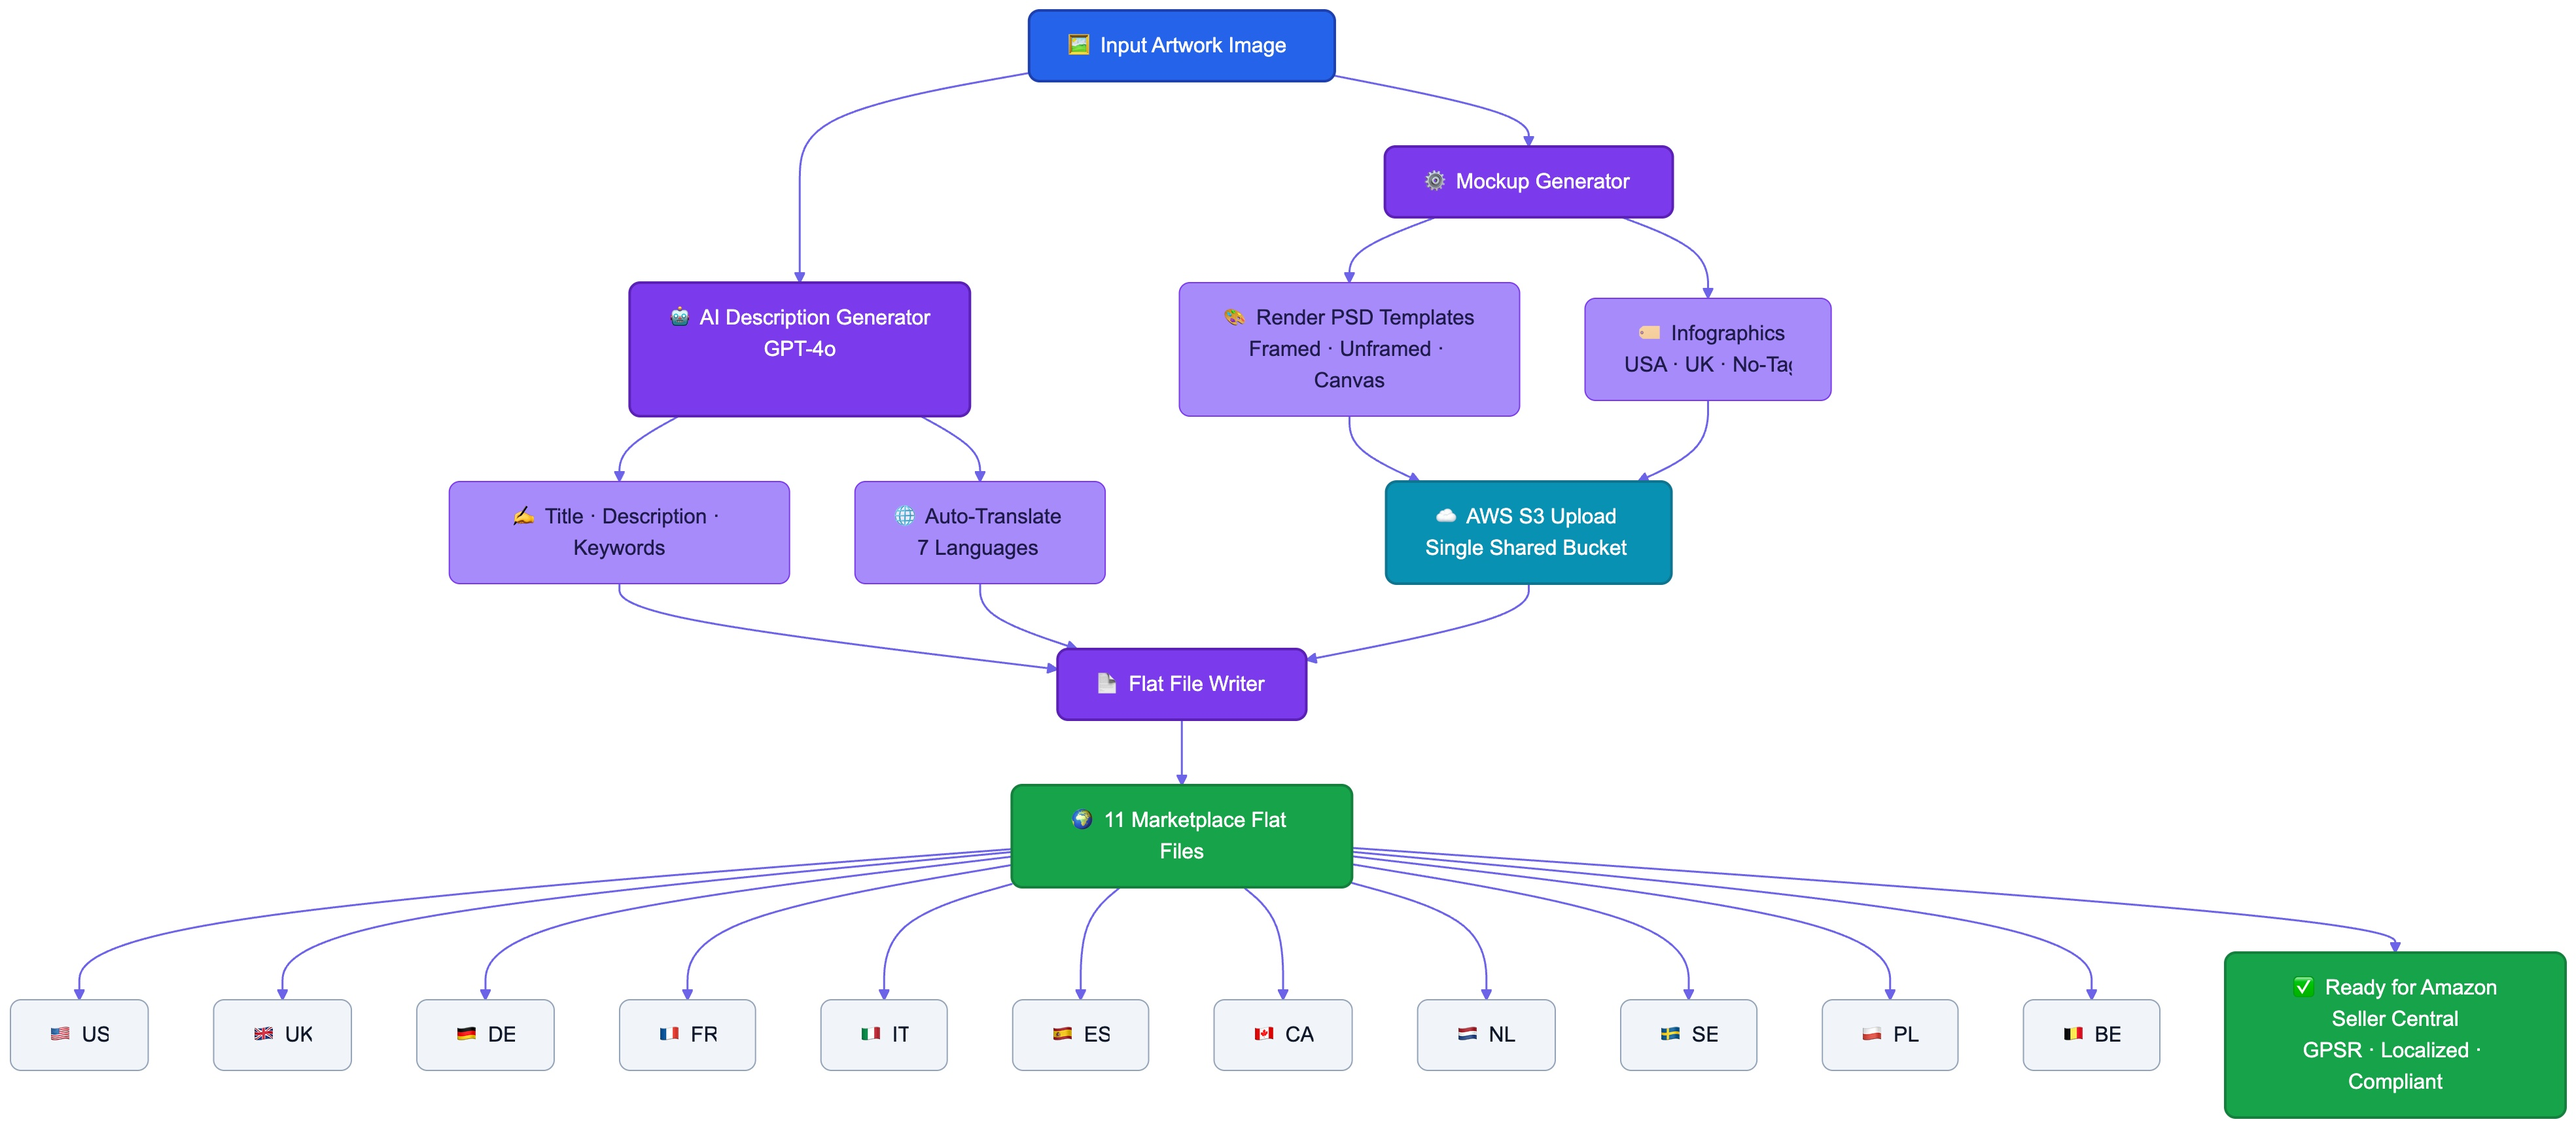
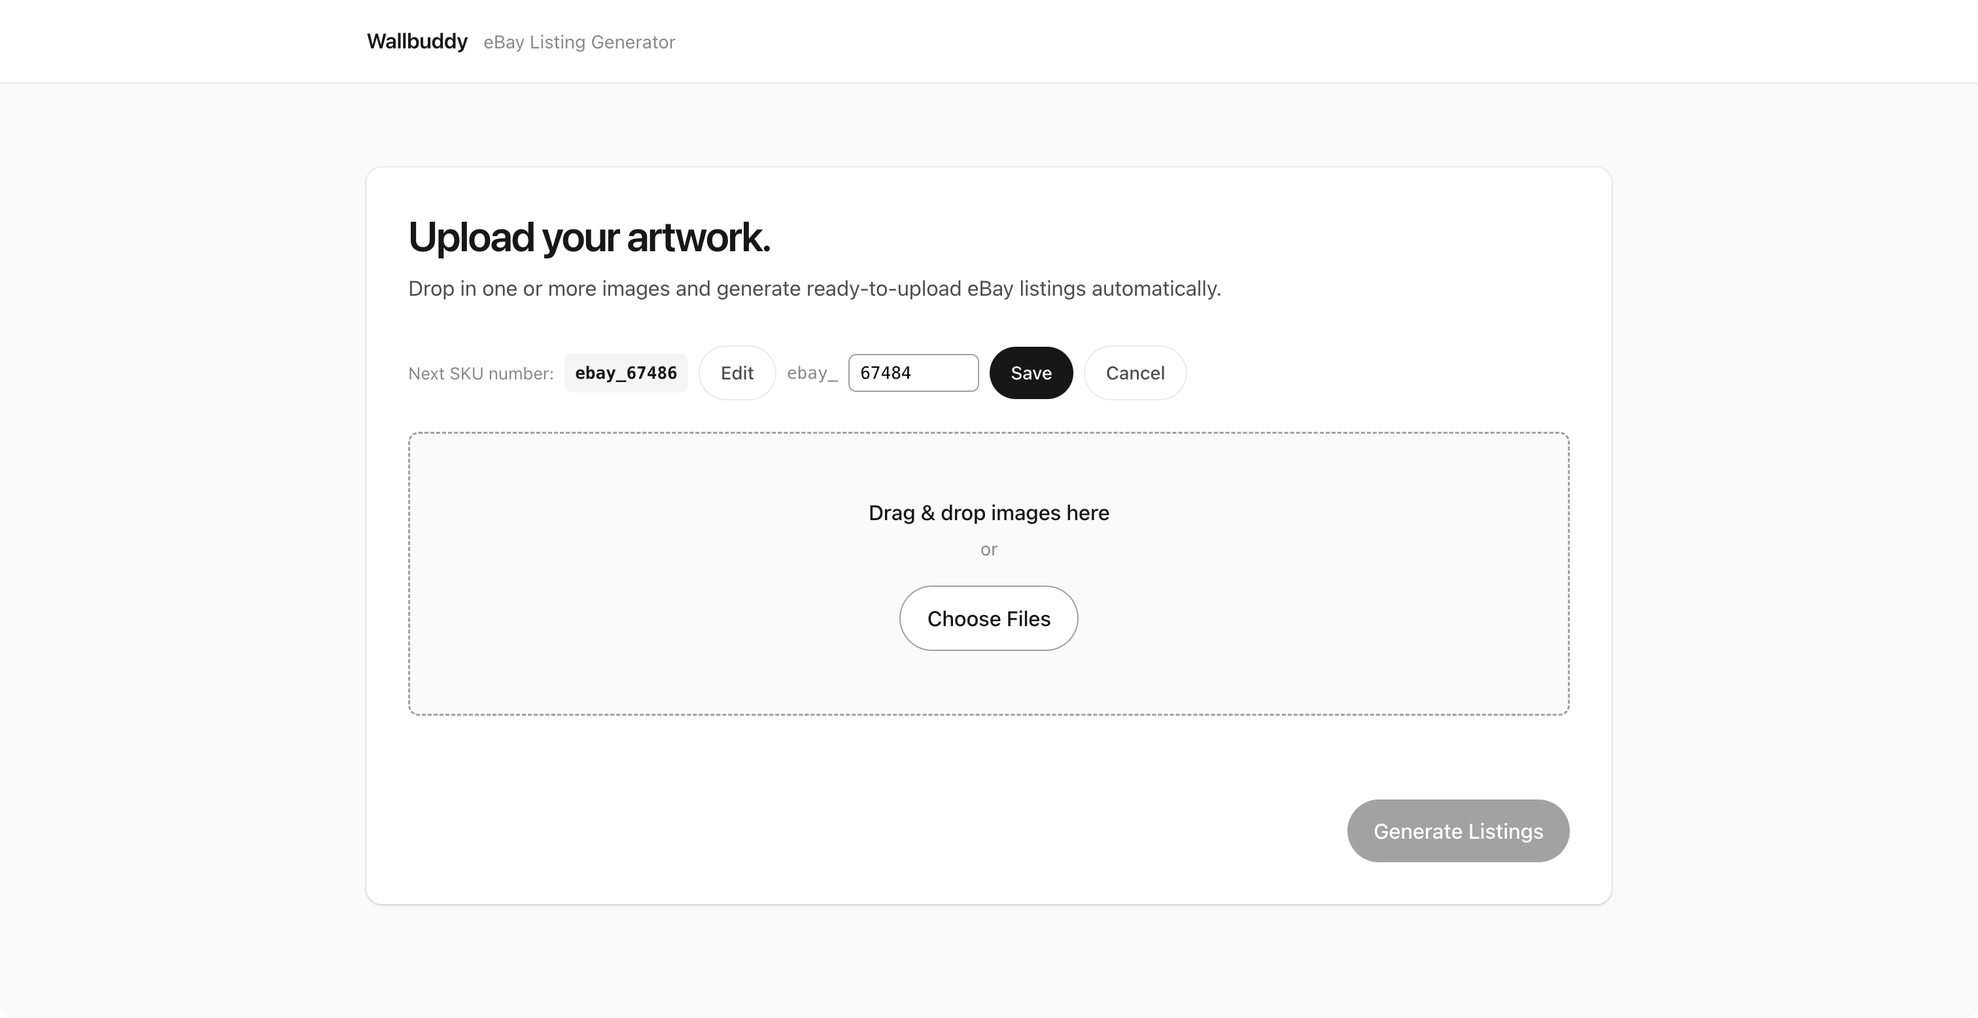
New updates added the video and the calendar and the reviews

diff --git a/index.html b/index.html
@@ -45,6 +45,7 @@
 
             <div class="hidden md:flex items-center gap-8 text-sm font-semibold text-slate-300">
                 <a href="#projects" class="hover:text-blue-400 transition-colors">Projects</a>
+                <a href="#reviews" class="hover:text-blue-400 transition-colors">Reviews</a>
                 <a href="#connect" class="hover:text-blue-400 transition-colors">Connect</a>
                 <a href="#experience" class="hover:text-blue-400 transition-colors">Experience</a>
                 <a href="#skills" class="hover:text-blue-400 transition-colors">Stack</a>
@@ -58,6 +59,7 @@
 
         <div id="mobileMenu" class="hidden md:hidden border-t border-white/10 bg-slate-950 px-5 sm:px-6 py-2 flex flex-col text-base font-semibold text-slate-300">
             <a href="#projects" onclick="closeMobileMenu()" class="py-4 border-b border-white/10">Projects</a>
+            <a href="#reviews" onclick="closeMobileMenu()" class="py-4 border-b border-white/10">Reviews</a>
             <a href="#connect" onclick="closeMobileMenu()" class="py-4 border-b border-white/10">Connect</a>
             <a href="#experience" onclick="closeMobileMenu()" class="py-4 border-b border-white/10">Experience</a>
             <a href="#skills" onclick="closeMobileMenu()" class="py-4">Stack</a>
@@ -79,7 +81,7 @@
                     </h1>
                     <p class="text-slate-400 text-base md:text-lg font-semibold mb-6">Ayoub Amazyan</p>
                     <p class="max-w-xl mx-auto md:mx-0 text-base md:text-lg text-slate-300 leading-relaxed mb-8">
-                        3+ years building production AI systems — agentic workflows, RAG pipelines, computer vision, and end-to-end automation.
+                        3+ years building production AI systems agentic workflows, RAG pipelines, computer vision, and end-to-end automation.
                     </p>
 
                     <div class="flex flex-wrap justify-center md:justify-start items-center gap-3 sm:gap-4">
@@ -131,6 +133,28 @@
                     <p class="font-mono text-[10px] sm:text-xs font-semibold text-slate-400 uppercase tracking-wide">Projects<br/>Delivered</p>
                 </div>
             </div>
+
+            <!-- Video intro -->
+            <div class="max-w-xl mx-auto mt-10 md:mt-14 rounded-2xl overflow-hidden border border-white/10 bg-white/5 backdrop-blur">
+                <div class="flex items-center gap-2 px-4 py-3 bg-black/30 border-b border-white/10">
+                    <span class="w-3 h-3 rounded-full bg-red-500/80"></span>
+                    <span class="w-3 h-3 rounded-full bg-yellow-500/80"></span>
+                    <span class="w-3 h-3 rounded-full bg-green-500/80"></span>
+                    <span class="ml-3 font-mono text-xs text-slate-400 truncate">intro.loom</span>
+                </div>
+                <!--
+                  LOOM EMBED — replace this whole aspect-video div with your real Loom iframe, e.g.:
+                  <div class="aspect-video"><iframe src="https://www.loom.com/embed/YOUR_VIDEO_ID" class="w-full h-full" allowfullscreen></iframe></div>
+                -->
+                <div class="aspect-video bg-slate-900/60 flex items-center justify-center">
+                    <div class="text-center px-6">
+                        <div class="w-16 h-16 rounded-full bg-white/10 flex items-center justify-center mx-auto mb-3">
+                            <i data-lucide="play" class="w-7 h-7 text-white ml-1"></i>
+                        </div>
+                        <p class="text-slate-400 text-sm font-mono">video intro coming soon</p>
+                    </div>
+                </div>
+            </div>
         </div>
     </section>
 
@@ -148,6 +172,70 @@
         <div id="projectGrid" class="grid grid-cols-1 sm:grid-cols-2 lg:grid-cols-3 gap-5 md:gap-6"></div>
     </section>
 
+    <!-- ============ REVIEWS (white) ============ -->
+    <section id="reviews" class="max-w-6xl mx-auto px-5 sm:px-6 py-16 md:py-24 scroll-mt-20">
+        <div class="flex items-end justify-between mb-8 md:mb-10 flex-wrap gap-3">
+            <div>
+                <h2 class="text-3xl md:text-4xl font-black flex items-center gap-3 text-slate-900">
+                    <i data-lucide="star" class="text-blue-600 w-7 h-7 md:w-8 md:h-8"></i> Client Reviews
+                </h2>
+            </div>
+            <a href="https://www.upwork.com/freelancers/ayouba77?viewMode=1" target="_blank" class="flex items-center gap-2 text-sm font-bold text-blue-600 hover:text-blue-700 transition-colors">
+                See all reviews on Upwork <i data-lucide="arrow-up-right" class="w-4 h-4"></i>
+            </a>
+        </div>
+
+        <div class="grid grid-cols-1 md:grid-cols-3 gap-5 md:gap-6 items-start">
+            <a href="https://www.upwork.com/freelancers/ayouba77?viewMode=1" target="_blank" class="group block rounded-2xl overflow-hidden border border-slate-200 bg-white hover:shadow-xl hover:-translate-y-1 transition-all duration-300">
+                <div class="flex items-center gap-2 px-4 py-2.5 bg-slate-950">
+                    <span class="w-2.5 h-2.5 rounded-full bg-red-500/80"></span>
+                    <span class="w-2.5 h-2.5 rounded-full bg-yellow-500/80"></span>
+                    <span class="w-2.5 h-2.5 rounded-full bg-green-500/80"></span>
+                    <span class="ml-2 font-mono text-[11px] text-slate-400 truncate">review_01.txt</span>
+                </div>
+                <div class="p-6">
+                    <p class="text-amber-400 text-base mb-3 tracking-wider">⭐⭐⭐⭐⭐</p>
+                    <p class="text-slate-700 text-sm leading-relaxed mb-5">"Couldn't have asked for a better developer! Took my vision and went beyond. Appreciated that he explained tech language as I am not a tech person when it comes to creating the platform, he created for me. Would definitely hire again."</p>
+                    <div class="flex items-center gap-2 text-xs font-bold text-slate-400 uppercase tracking-wide">
+                        <i data-lucide="badge-check" class="w-4 h-4 text-blue-600"></i> Verified Upwork Client
+                    </div>
+                </div>
+            </a>
+
+            <a href="https://www.upwork.com/freelancers/ayouba77?viewMode=1" target="_blank" class="group block rounded-2xl overflow-hidden border border-slate-200 bg-white hover:shadow-xl hover:-translate-y-1 transition-all duration-300">
+                <div class="flex items-center gap-2 px-4 py-2.5 bg-slate-950">
+                    <span class="w-2.5 h-2.5 rounded-full bg-red-500/80"></span>
+                    <span class="w-2.5 h-2.5 rounded-full bg-yellow-500/80"></span>
+                    <span class="w-2.5 h-2.5 rounded-full bg-green-500/80"></span>
+                    <span class="ml-2 font-mono text-[11px] text-slate-400 truncate">review_02.txt</span>
+                </div>
+                <div class="p-6">
+                    <p class="text-amber-400 text-base mb-3 tracking-wider">⭐⭐⭐⭐⭐</p>
+                    <p class="text-slate-700 text-sm leading-relaxed mb-5">"Brilliant developer – smart, quick, and extremely responsive. Ayoub was consistently available for calls and handled multiple iterations and revisions without any issues. We worked together on a fairly complex automation project involving image processing, file generation, and cloud integration, and he delivered exactly what was needed. One of the most reliable freelancers I've worked with on Upwork over the years. Would definitely recommend and will continue working with him."</p>
+                    <div class="flex items-center gap-2 text-xs font-bold text-slate-400 uppercase tracking-wide">
+                        <i data-lucide="badge-check" class="w-4 h-4 text-blue-600"></i> Verified Upwork Client
+                    </div>
+                </div>
+            </a>
+
+            <a href="https://www.upwork.com/freelancers/ayouba77?viewMode=1" target="_blank" class="group block rounded-2xl overflow-hidden border border-slate-200 bg-white hover:shadow-xl hover:-translate-y-1 transition-all duration-300">
+                <div class="flex items-center gap-2 px-4 py-2.5 bg-slate-950">
+                    <span class="w-2.5 h-2.5 rounded-full bg-red-500/80"></span>
+                    <span class="w-2.5 h-2.5 rounded-full bg-yellow-500/80"></span>
+                    <span class="w-2.5 h-2.5 rounded-full bg-green-500/80"></span>
+                    <span class="ml-2 font-mono text-[11px] text-slate-400 truncate">review_03.txt</span>
+                </div>
+                <div class="p-6">
+                    <p class="text-amber-400 text-base mb-3 tracking-wider">⭐⭐⭐⭐⭐</p>
+                    <p class="text-slate-700 text-sm leading-relaxed mb-5">"Well done."</p>
+                    <div class="flex items-center gap-2 text-xs font-bold text-slate-400 uppercase tracking-wide">
+                        <i data-lucide="badge-check" class="w-4 h-4 text-blue-600"></i> Verified Upwork Client
+                    </div>
+                </div>
+            </a>
+        </div>
+    </section>
+
     <!-- ============ CONNECT: book a call + video intro (dark band) ============ -->
     <section id="connect" class="relative bg-slate-950 overflow-hidden py-16 md:py-24 scroll-mt-16">
         <div class="absolute inset-0 grid-overlay opacity-30 pointer-events-none"></div>
@@ -157,50 +245,25 @@
         <div class="max-w-6xl mx-auto px-5 sm:px-6 relative z-10">
             <h2 class="text-3xl md:text-5xl font-black text-white mb-10 md:mb-14">Let's build something.</h2>
 
-            <div class="max-w-2xl mx-auto space-y-6 md:space-y-8">
-                <!-- Video intro -->
-                <div class="rounded-2xl overflow-hidden border border-white/10 bg-white/5 backdrop-blur">
-                    <div class="flex items-center gap-2 px-4 py-3 bg-black/30 border-b border-white/10">
-                        <span class="w-3 h-3 rounded-full bg-red-500/80"></span>
-                        <span class="w-3 h-3 rounded-full bg-yellow-500/80"></span>
-                        <span class="w-3 h-3 rounded-full bg-green-500/80"></span>
-                        <span class="ml-3 font-mono text-xs text-slate-400 truncate">intro.loom</span>
-                    </div>
-                    <!--
-                      LOOM EMBED — replace this whole aspect-video div with your real Loom iframe, e.g.:
-                      <div class="aspect-video"><iframe src="https://www.loom.com/embed/YOUR_VIDEO_ID" class="w-full h-full" allowfullscreen></iframe></div>
-                    -->
-                    <div class="aspect-video bg-slate-900/60 flex items-center justify-center">
-                        <div class="text-center px-6">
-                            <div class="w-16 h-16 rounded-full bg-white/10 flex items-center justify-center mx-auto mb-3">
-                                <i data-lucide="play" class="w-7 h-7 text-white ml-1"></i>
-                            </div>
-                            <p class="text-slate-400 text-sm font-mono">video intro coming soon</p>
-                        </div>
-                    </div>
+            <div class="max-w-xl mx-auto rounded-2xl overflow-hidden border border-white/10 bg-white/5 backdrop-blur">
+                <div class="flex items-center gap-2 px-4 py-3 bg-black/30 border-b border-white/10">
+                    <span class="w-3 h-3 rounded-full bg-red-500/80"></span>
+                    <span class="w-3 h-3 rounded-full bg-yellow-500/80"></span>
+                    <span class="w-3 h-3 rounded-full bg-green-500/80"></span>
+                    <span class="ml-3 font-mono text-xs text-slate-400 truncate">book-a-call.sh</span>
                 </div>
+                <div class="p-8 sm:p-10 text-center">
+                    <i data-lucide="calendar-clock" class="w-10 h-10 text-blue-400 mx-auto mb-4"></i>
+                    <h3 class="text-white font-bold text-xl mb-2">Book a Free Intro Call</h3>
+                    <p class="text-slate-400 text-sm mb-7">30 minutes, no pressure — let's talk about your project. Pick a day and time that works for you.</p>
 
-                <!-- Book a call -->
-                <div class="rounded-2xl overflow-hidden border border-white/10 bg-white/5 backdrop-blur">
-                    <div class="flex items-center gap-2 px-4 py-3 bg-black/30 border-b border-white/10">
-                        <span class="w-3 h-3 rounded-full bg-red-500/80"></span>
-                        <span class="w-3 h-3 rounded-full bg-yellow-500/80"></span>
-                        <span class="w-3 h-3 rounded-full bg-green-500/80"></span>
-                        <span class="ml-3 font-mono text-xs text-slate-400 truncate">book-a-call.sh</span>
-                    </div>
-                    <div class="p-6 sm:p-8">
-                        <div class="text-center mb-6">
-                            <i data-lucide="calendar-clock" class="w-10 h-10 text-blue-400 mx-auto mb-4"></i>
-                            <h3 class="text-white font-bold text-xl mb-2">Book a Free Intro Call</h3>
-                            <p class="text-slate-400 text-sm">30 minutes, no pressure — let's talk about your project.</p>
-                        </div>
+                    <button data-cal-link="ayoub-amz-9o5ebr/30-min-meeting" data-cal-config='{"layout":"month_view"}' class="inline-flex items-center gap-2 bg-blue-600 hover:bg-blue-500 text-white px-6 py-3.5 rounded-full font-bold transition-all shadow-xl shadow-blue-600/20 cursor-pointer">
+                        <i data-lucide="calendar-days" class="w-5 h-5"></i> Open Booking Calendar
+                    </button>
 
-                        <div id="cal-booking-inline" style="width:100%;height:600px;overflow:scroll"></div>
-
-                        <a href="mailto:ayoubamazyan26@gmail.com?subject=Let%27s%20talk%20about%20a%20project" class="mt-5 flex items-center justify-center gap-2 text-slate-300 hover:text-white text-sm font-semibold transition-all">
-                            <i data-lucide="mail" class="w-4 h-4"></i> Or email me directly
-                        </a>
-                    </div>
+                    <a href="mailto:ayoubamazyan26@gmail.com?subject=Let%27s%20talk%20about%20a%20project" class="mt-5 flex items-center justify-center gap-2 text-slate-300 hover:text-white text-sm font-semibold transition-all">
+                        <i data-lucide="mail" class="w-4 h-4"></i> Or email me directly
+                    </a>
                 </div>
             </div>
         </div>
@@ -706,7 +769,7 @@
                 title: "Amazon Listing Automation Pipeline",
                 category: "Python Automation",
                 folder: "./assets/amazon",
-                count: 1,
+                count: 7,
                 tags: ["Python", "OpenAI API", "AWS S3"],
                 desc: "Built an end-to-end Python automation pipeline generating complete Amazon product listings across <strong>11 international marketplaces</strong> (US, UK, DE, FR, IT, ES, CA, NL, SE, PL, BE) from a single source image. Auto-generates framed/unframed product mockups from PSD templates, produces AI-written titles, descriptions, and keywords via <strong>GPT-4o</strong> with automatic translation into 7 languages, uploads images to <strong>AWS S3</strong>, and writes fully-populated marketplace-compliant flat files including GPSR safety fields, localized sizing, and per-market regulatory data. Reduced a manual process taking hours per listing to a one-command workflow completing in minutes, while eliminating image cache collisions, compliance rejections, and localization errors. <br/><br/><strong>Tools:</strong> Python, openpyxl, psd-tools, OpenAI API, boto3, AWS S3."
             },
@@ -878,11 +941,6 @@
         // --- CAL.COM BOOKING EMBED ---
         (function (C, A, L) { let p = function (a, ar) { a.q.push(ar); }; let d = C.document; C.Cal = C.Cal || function () { let cal = C.Cal; let ar = arguments; if (!cal.loaded) { cal.ns = {}; cal.q = cal.q || []; d.head.appendChild(d.createElement("script")).src = A; cal.loaded = true; } if (ar[0] === L) { const api = function () { p(api, arguments); }; const namespace = ar[1]; api.q = api.q || []; if(typeof namespace === "string"){cal.ns[namespace] = cal.ns[namespace] || api;p(cal.ns[namespace], ar);p(cal, ["initNamespace", namespace]);} else p(cal, ar); return;} p(cal, ar); }; })(window, "https://app.cal.com/embed/embed.js", "init");
         Cal("init", { origin: "https://cal.com" });
-        Cal("inline", {
-            elementOrSelector: "#cal-booking-inline",
-            calLink: "ayoub-amz-9o5ebr/30-min-meeting",
-            layout: "month_view"
-        });
         Cal("ui", { "styles": { "branding": { "brandColor": "#2563eb" } }, "hideEventTypeDetails": false, "layout": "month_view" });
     </script>
 
